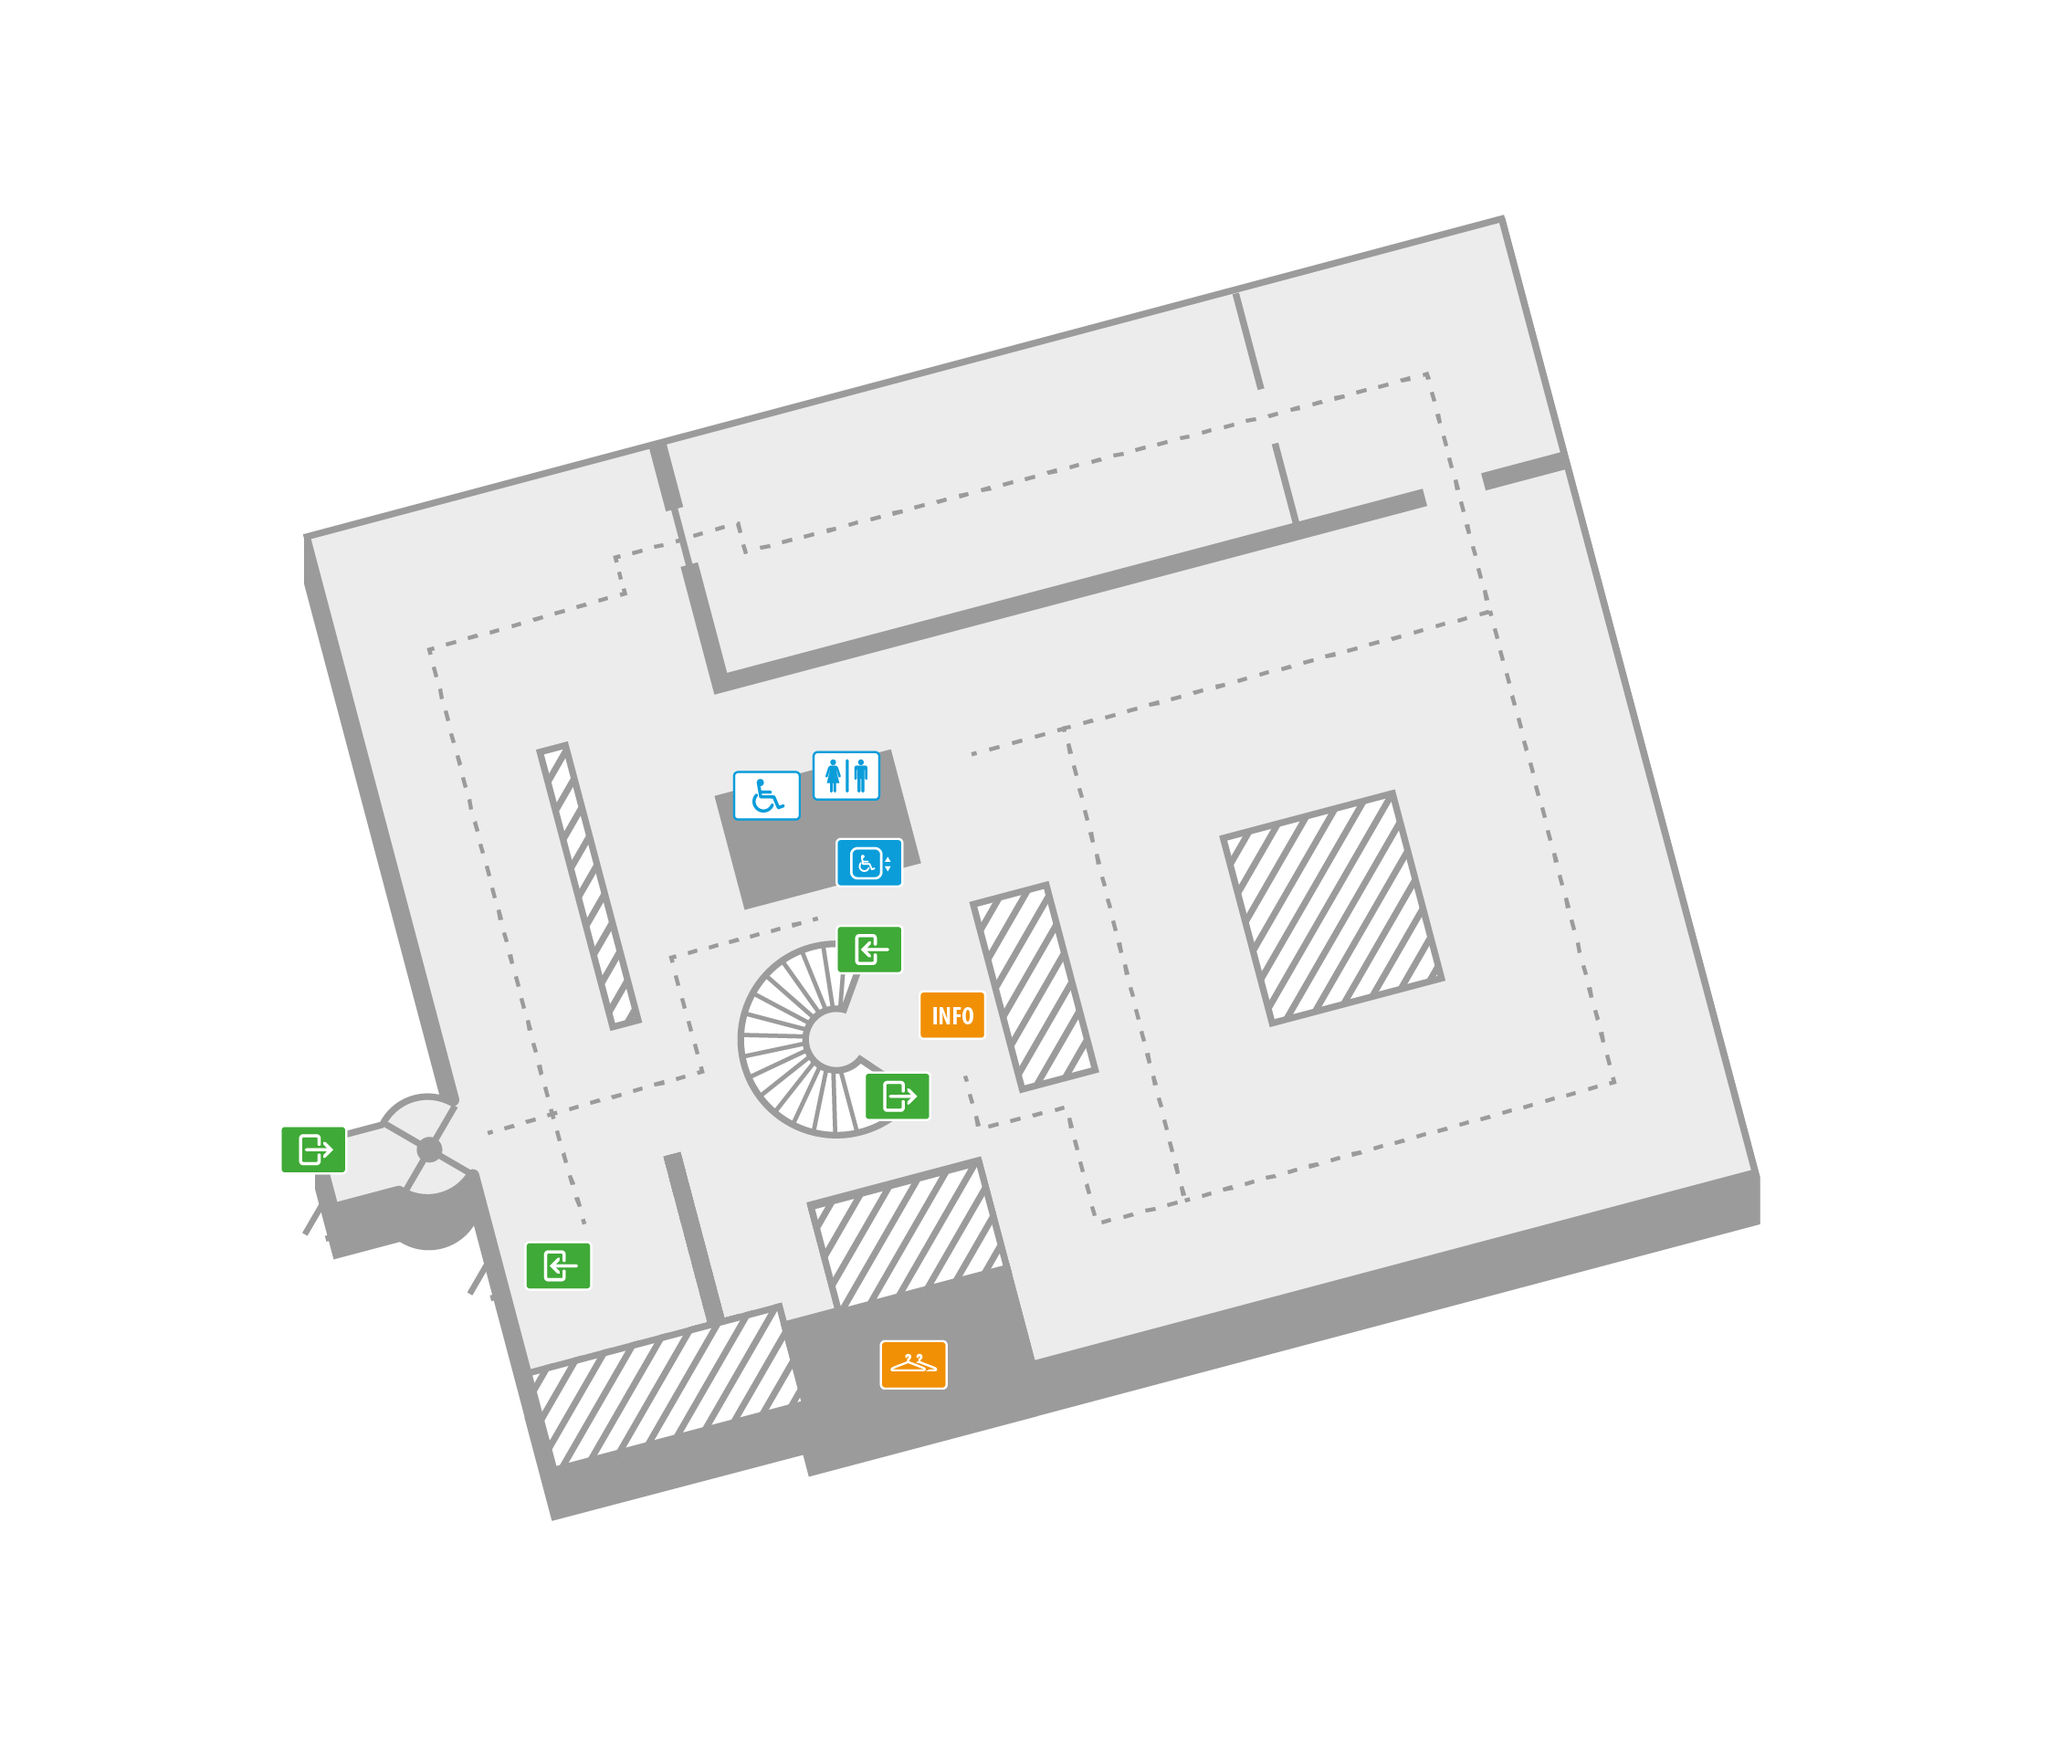
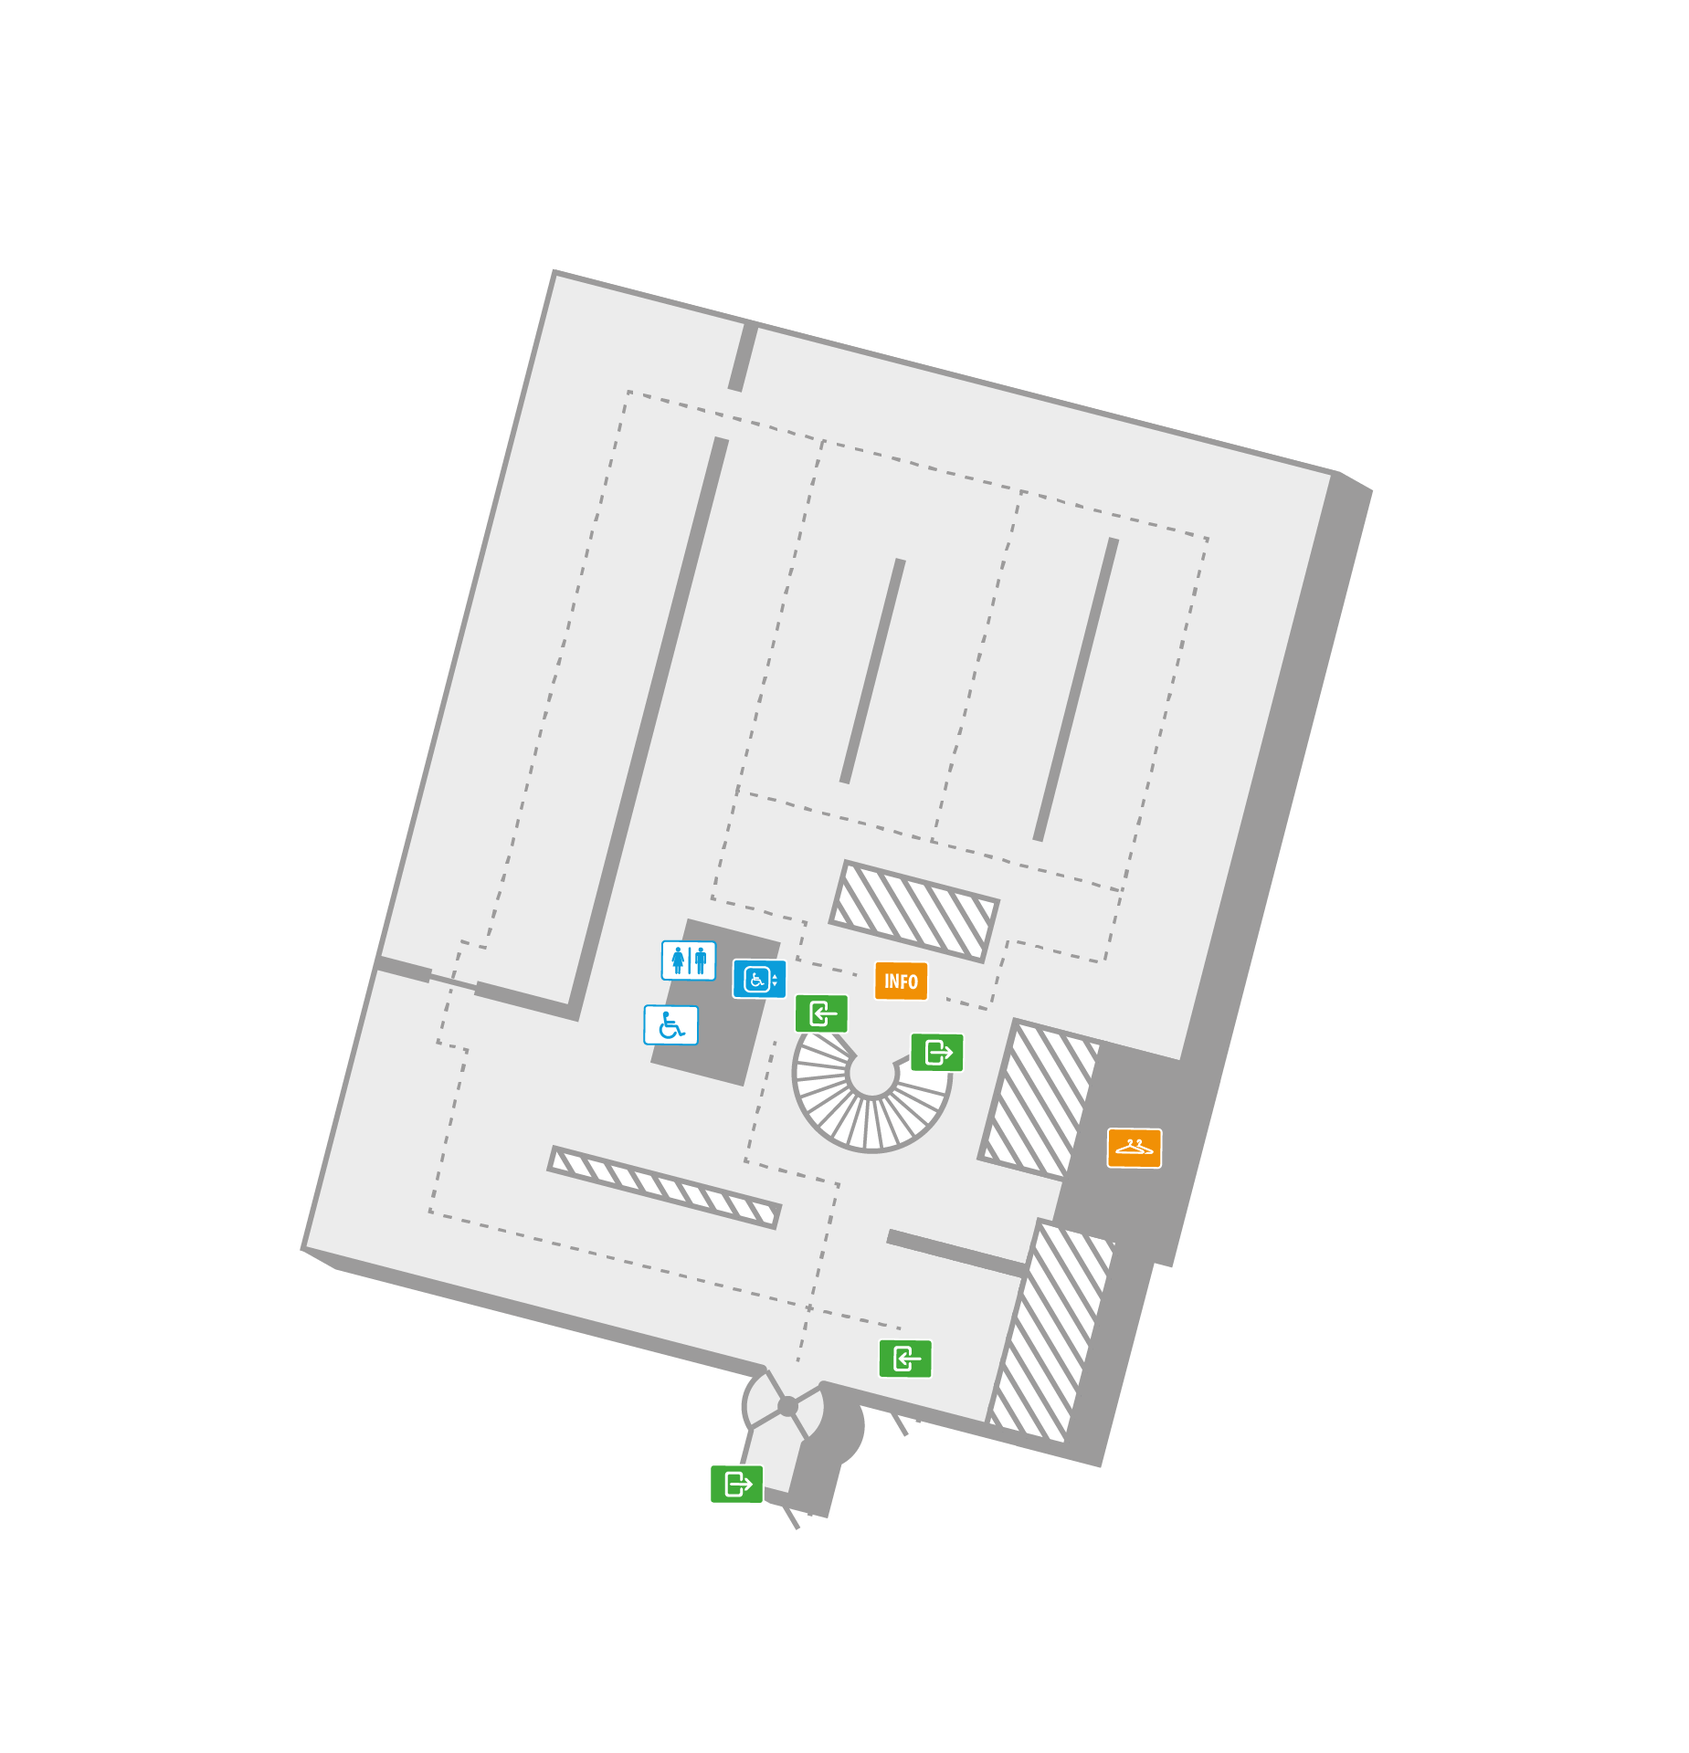
changed fetching floor logic and refactored to main map screen

diff --git a/screens/maps/PositioningMapScreen.tsx b/screens/maps/PositioningMapScreen.tsx
@@ -11,7 +11,7 @@ import {
   ReactRoutableTarget,
   ReactRoutingPosition,
   ReactAIIndoorNavigationSDK,
-  SyncingInterval, FeatureModelGraph, ReactFeatureModelNode
+  SyncingInterval, FeatureModelGraph, ReactFeatureModelNode, ReactCombainFloorMap
 } from "react-native-ai-navigation-sdk";
 import {
   Button,
@@ -46,6 +46,8 @@ import { ShowOptions, TagsList } from "components/companies/TagsList";
 import { ArkadButton } from "components/Buttons";
 import MaterialIcons from '@expo/vector-icons/MaterialIcons';
 import { RoutingMarker } from "./components/Markers/RoutingMarker";
+import PlacePolygon from "./components/PlacePolygon";
+import { getImageAndBearing } from "./components/utils/getBearingAndImage";
 
 
 
@@ -165,6 +167,39 @@ export default function PositioningMapScreen({ route }: PositioningMapScreenProp
     }, 1000);
   };
 
+  const renderSelectedFloor = () => {
+    if(selectedFloor===0){
+      return allPlaces.map(place => {
+        if(place?.floors[0]?.floorMap?.imageURL) {
+          const floorMap = place.floors[0].floorMap
+          const {image,bearing} = getImageAndBearing(place.name, selectedFloor)
+          const key = place!.originalFeatureModelId!+selectedFloor
+          return(
+            <View key={key }>
+              {selectedFloor===0 ? ( <FloorMapOverlay key={key} floorMap={floorMap} bearing={bearing} imageReqSource={image}  />
+              ): null}
+            </View>
+          )
+        }
+      })
+    }else if(selectedFloor===1){
+      return allPlaces.map(place => {
+        if(place?.floors[1]?.floorMap?.imageURL) {
+          const floorMap = place.floors[1].floorMap
+          const {image,bearing} = getImageAndBearing(place.name, selectedFloor)
+          const key = place!.originalFeatureModelId!+selectedFloor
+          return(
+            <View key={key }>
+            {selectedFloor===1 ? ( <FloorMapOverlay key={key} floorMap={floorMap} bearing={bearing} imageReqSource={image}  />
+              ): null}
+            </View>
+          )
+        }
+      })
+    }else {
+      return null;
+    }
+  }
 
   const floorZeroNodes = featureModelNodes.filter(node => node.floorIndex === 0);
   const floorOneNodes = featureModelNodes.filter(node => node.floorIndex === 1);
@@ -174,7 +209,6 @@ export default function PositioningMapScreen({ route }: PositioningMapScreenProp
     return nodesToRender.map(marker => {
       const matchingCompany = companyMap[marker.name] || null;
       const matchingTarget = targetMap[marker.name] || null;
-
       return (
         <RoutingMarker
           key={`${marker.id}`}
@@ -192,7 +226,6 @@ export default function PositioningMapScreen({ route }: PositioningMapScreenProp
     );
     setAllTargets(filteredTargets);
   }
-
 
 
   const initializeSDK = useCallback(async () => {
@@ -242,10 +275,6 @@ export default function PositioningMapScreen({ route }: PositioningMapScreenProp
     }
   }, [sdkInitialized]);
 
-
-  const ASPECT_RATIO = width / height;
-  const LATITUDE_DELTA = 0.0922;
-  const LONGITUDE_DELTA = LATITUDE_DELTA * ASPECT_RATIO;
   const companyMap = allCompanies?.reduce((acc, company) => {
     if (company.name) acc[company.name] = company;
     return acc;
@@ -279,14 +308,20 @@ export default function PositioningMapScreen({ route }: PositioningMapScreenProp
             loadingEnabled={true}
             loadingIndicatorColor={Colors.white}
             loadingBackgroundColor = {Colors.arkadNavy}
+            userInterfaceStyle ="dark"
           >
 
 
 
             {location?.indoor?.floorIndex===selectedFloor || location?.indoor===undefined ? (<BlueDotMarker coordinate={{ latitude: lat!, longitude: lng! }} />) : null}
             {currentRoute && location && <RoutingPath startPosition={currentRoute} currentlocation={location} selectedFloor={selectedFloor} />}
-            <AreaPolygons allPlaces={allPlaces} floorNbr={selectedFloor} />
+            <PlacePolygon allPlaces={allPlaces}/>
+
             {renderMarkersForSelectedFloor()}
+            {renderSelectedFloor()}
+
+
+
           </MapView>
         )
       ) : (
@@ -415,8 +450,6 @@ export default function PositioningMapScreen({ route }: PositioningMapScreenProp
 const styles = StyleSheet.create({
   container: {
     ...StyleSheet.absoluteFillObject,
-    justifyContent: 'flex-end',
-    alignItems: 'center',
   },
   map: {
     ...StyleSheet.absoluteFillObject,

diff --git a/screens/maps/components/PlacePolygon.tsx b/screens/maps/components/PlacePolygon.tsx
@@ -1,0 +1,51 @@
+import React from "react";
+import { Polygon } from "react-native-maps";
+import { View } from "react-native";
+import Colors from "constants/Colors";
+import { ReactPlace } from "react-native-ai-navigation-sdk";
+
+type PlacePolygonsProps = {
+  allPlaces: Array<ReactPlace | null>;
+  strokeColor?: string;
+  strokeWidth?: number;
+  fillColor?: string;
+};
+
+const PlacePolygons: React.FC<PlacePolygonsProps> = ({
+                                                       allPlaces,
+                                                       strokeColor = Colors.arkadOrange,
+                                                       strokeWidth = 2,
+                                                       fillColor = "#9a9a9a",  // default fillColor for places except "LTH Campus"
+                                                     }) => {
+  return (
+    <>
+      {allPlaces.map((place, index) => {
+        //console.log(place?.name)
+
+        //console.log(place?.placePolygon?.vertices.length)
+        if (!place || !place.placePolygon?.vertices || place.placePolygon.vertices.length === 0) {
+          return null;
+        }
+
+        const coordinates = place.placePolygon.vertices.map((point) => ({
+          latitude: point!.lat,
+          longitude: point!.lng,
+        }));
+
+        return (
+          <View key={index}>
+            <Polygon
+              coordinates={coordinates}
+              strokeColor={strokeColor}
+              strokeWidth={strokeWidth}
+              fillColor={place.name !== "LTH Campus" ? fillColor : "transparent"}
+              zIndex={0}
+            />
+          </View>
+        );
+      })}
+    </>
+  );
+};
+
+export default PlacePolygons;

diff --git a/app.config.ts b/app.config.ts
@@ -18,6 +18,28 @@ export default {
   },
   assetBundlePatterns: ["**/*"],
   expo: {
+    plugins: [
+      [
+        "expo-build-properties",
+        {
+          ios: {
+            useFrameworks: "static",
+          },
+        },
+      ],
+      [
+        "expo-location",
+        {
+          locationAlwaysAndWhenInUsePermission: "Allow $(PRODUCT_NAME) to use your location."
+        }
+      ],
+      [
+        "expo-sensors",
+        {
+          "motionPermission": "Allow $(PRODUCT_NAME) to access your device motion."
+        }
+      ]
+    ],
     ios: {
       bundleIdentifier: "se.arkadtlth.nexpo",
       googleServicesFile: "./GoogleService-Info.plist",
@@ -30,6 +52,7 @@ export default {
         "expo-font",
         "expo-secure-store",
         "expo-notifications",
+        "expo-locations",
         [
           "expo-build-properties",
           {

diff --git a/screens/maps/components/utils/getBearingAndImage.tsx b/screens/maps/components/utils/getBearingAndImage.tsx
@@ -1,0 +1,18 @@
+export const getImageAndBearing = (placeName: string | undefined, floorNbr: number) => {
+  switch (placeName) {
+    case 'E-huset':
+      return { image: require("assets/images/Buildings/E0.png"), bearing: 0 };
+    case 'Kårhuset':
+      return floorNbr === 1
+        ? { image: require("assets/images/Buildings/K2.png"), bearing: 0 }
+        : { image: require("assets/images/Buildings/K1.png"), bearing: 0 };
+    case 'Studiecentrum, LTH':
+      return floorNbr === 1
+        ? { image: require("assets/images/Buildings/SC2.png"), bearing: 0 }
+        : { image: require("assets/images/Buildings/SC1.png"), bearing: 0 };
+    case "X-Lab":
+      return { image: require("assets/images/Buildings/X1.png"), bearing: 0 };
+    default:
+      return { image: null, bearing: 0 };
+  }
+};

diff --git a/screens/maps/components/FloorMapOverlay.tsx b/screens/maps/components/FloorMapOverlay.tsx
@@ -45,18 +45,17 @@ const FloorMapOverlay: React.FC<FloorMapOverlayProps> = ({ floorMap, bearing, im
   const topRight = isNEBottomLeft ? SW : NE;
 
   return (
-    <View style={styles.container}>
       <Overlay
         bounds={[
           [bottomLeft.latitude, bottomLeft.longitude],
           [topRight.latitude, topRight.longitude],
         ]}
+        key={floorMap.imageURL}
+        id={floorMap.imageURL}
         bearing={bearing}
         style={styles.overlay}
         image={imageReqSource? imageReqSource : imageSource}
       />
-
-    </View>
   );
 };
 
